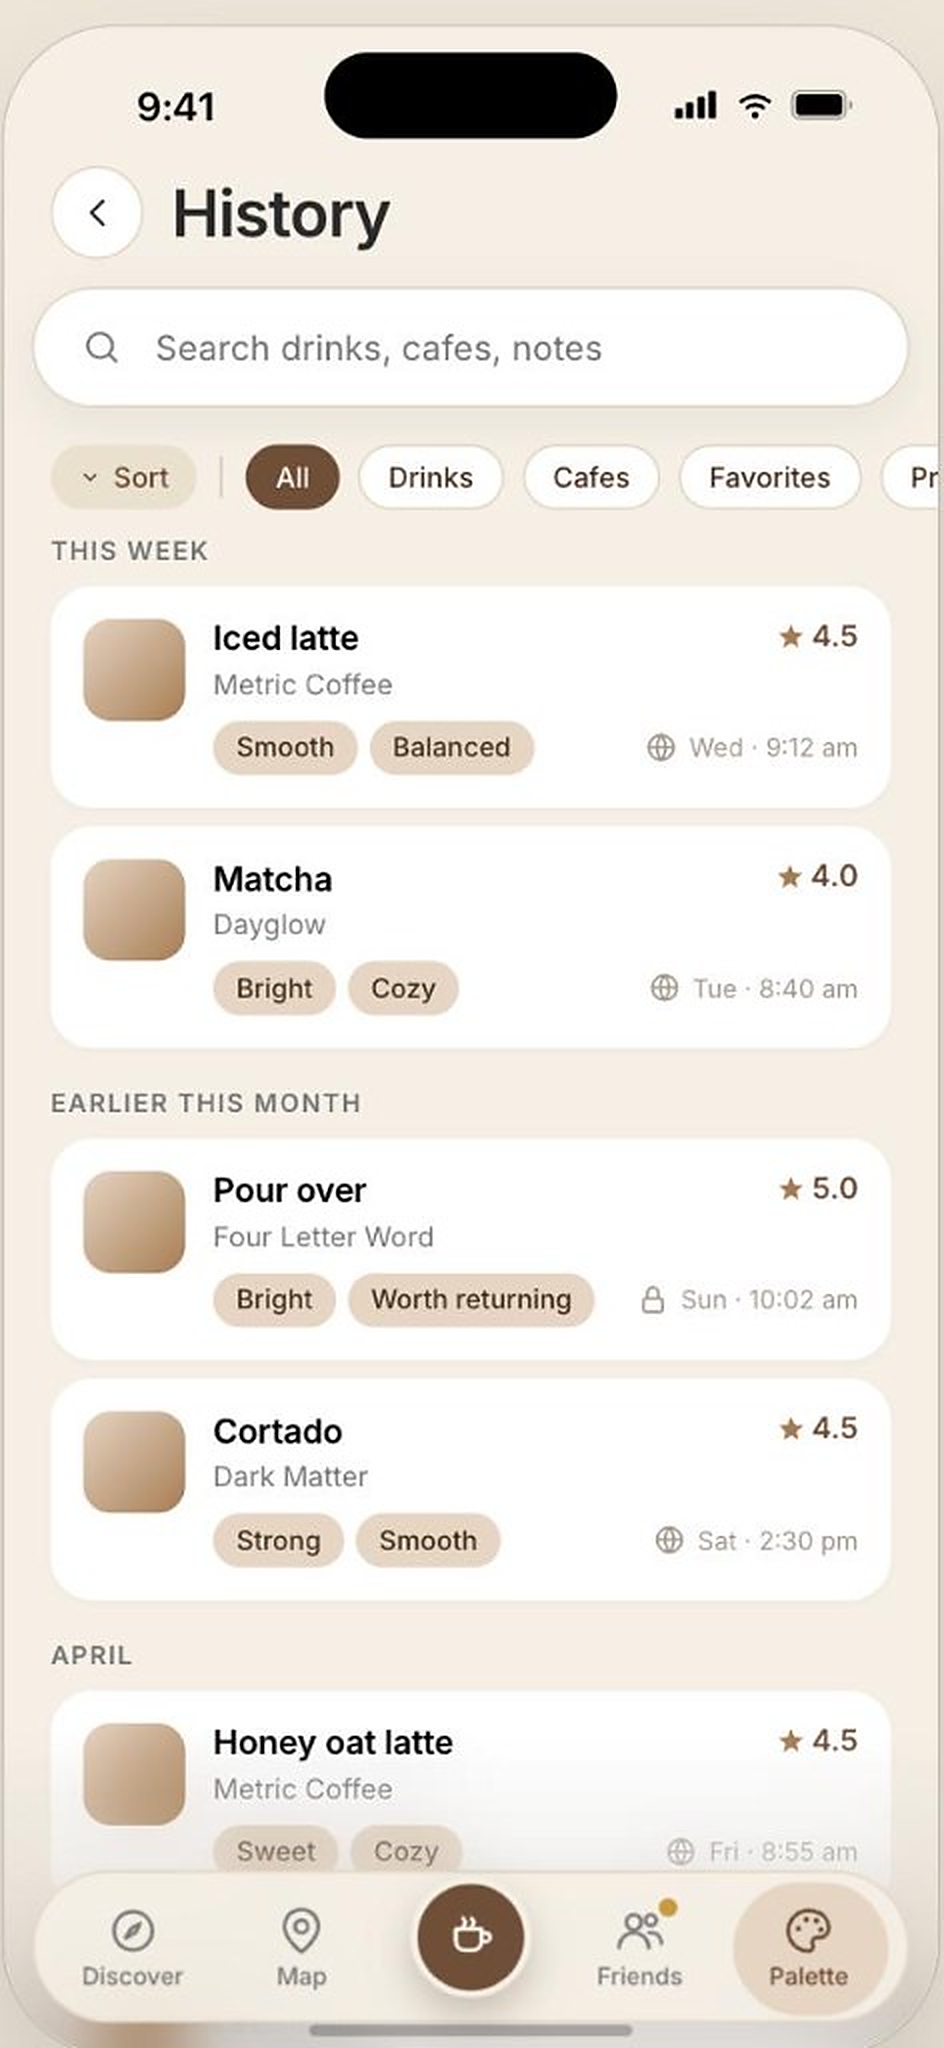
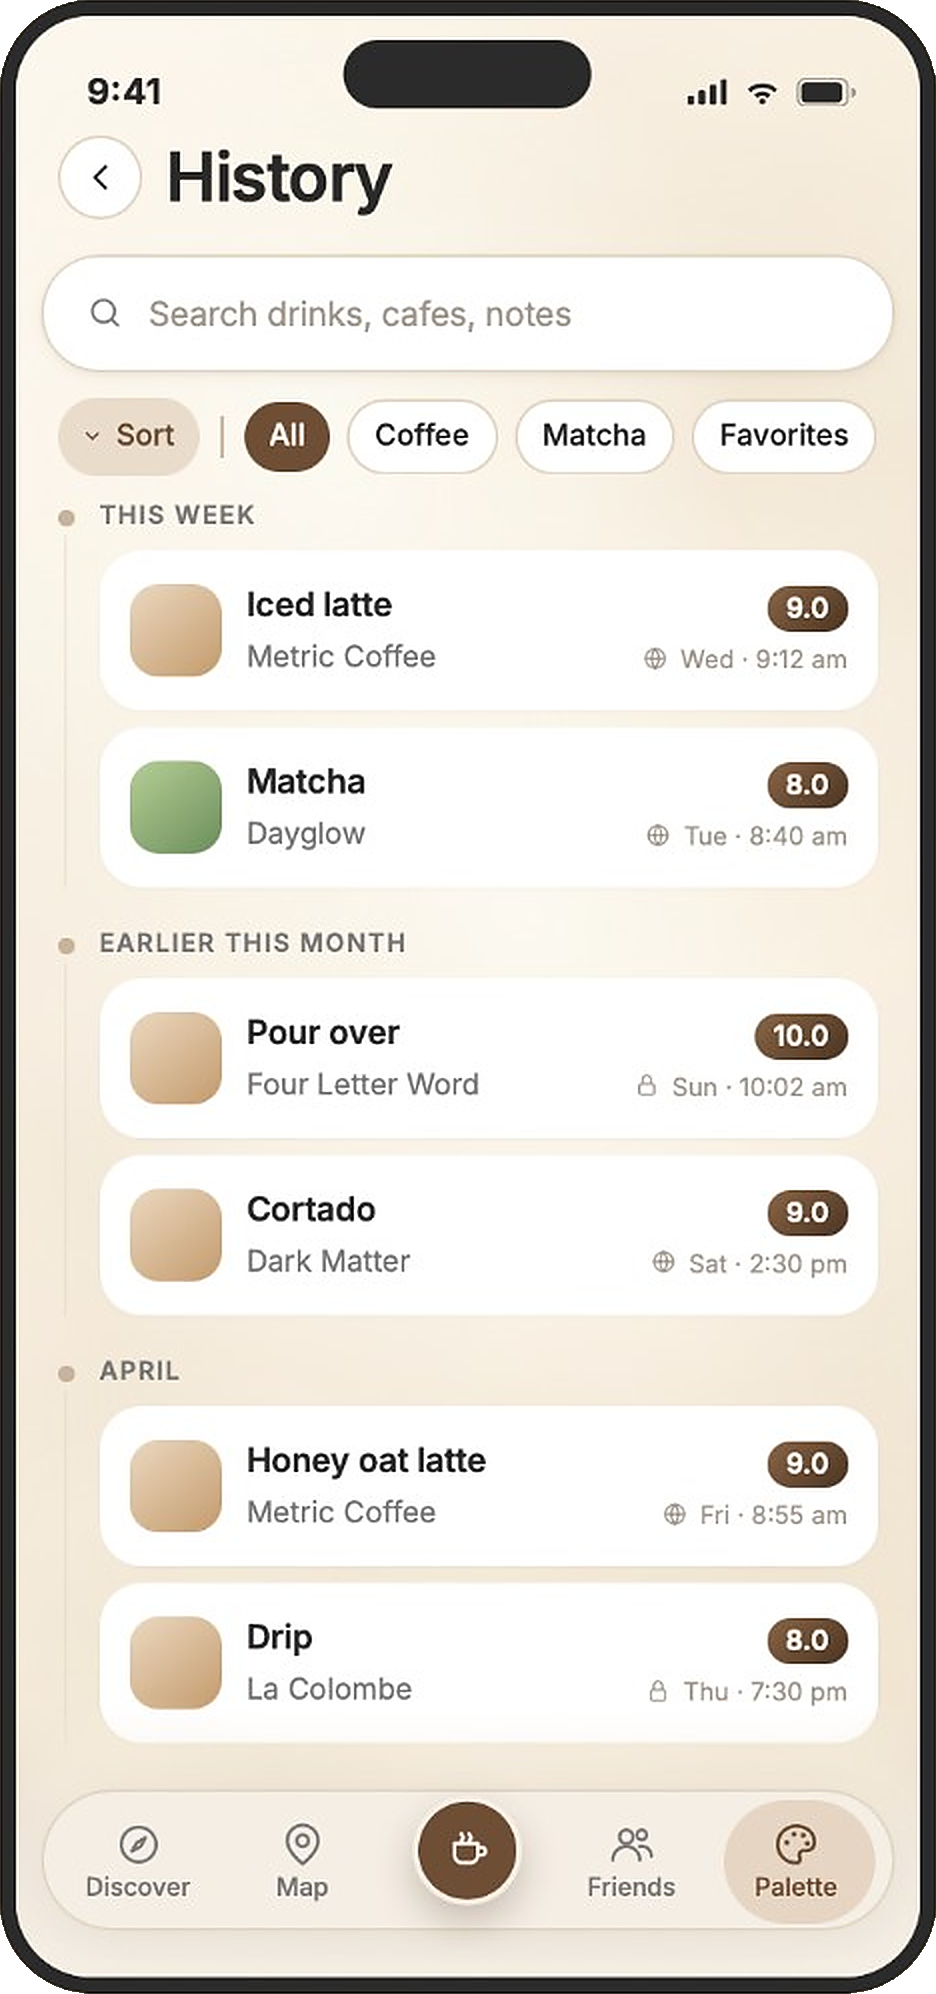
added shi

diff --git a/index.html b/index.html
@@ -108,7 +108,7 @@
   }
   .hero h1 {
     font-weight: 700;
-    font-size: clamp(40px, 4.4vw, 56px);
+    font-size: clamp(32px, 3.4vw, 44px);
     line-height: 1.08;
     letter-spacing: -0.025em;
     color: #111;
@@ -172,20 +172,13 @@
   .hero-phone {
     justify-self: center;
     width: 320px;
-    aspect-ratio: 9 / 19.5;
-    border-radius: 44px;
-    overflow: hidden;
-    background: #111;
-    box-shadow:
-      0 24px 48px -16px rgba(0,0,0,0.18),
-      0 6px 14px -6px rgba(0,0,0,0.1);
   }
   .hero-phone img {
     width: 100%;
-    height: 100%;
-    object-fit: cover;
-    transform: translate(0.5px, -0.5px) scale(1.04);
-    transform-origin: center center;
+    height: auto;
+    filter:
+      drop-shadow(0 24px 48px rgba(0, 0, 0, 0.16))
+      drop-shadow(0 6px 14px rgba(0, 0, 0, 0.08));
   }
 
   /* ---------- centered section template ---------- */
@@ -230,7 +223,18 @@
     justify-content: center;
     align-items: center;
   }
+  /* screenshots include their own device chrome — no outer shell */
+  .phone-shot {
+    width: 300px;
+    height: auto;
+    filter:
+      drop-shadow(0 24px 48px rgba(0, 0, 0, 0.16))
+      drop-shadow(0 6px 14px rgba(0, 0, 0, 0.08));
+  }
+
+  /* compare mock only */
   .phone-frame {
+    position: relative;
     width: 300px;
     aspect-ratio: 9 / 19.5;
     border-radius: 44px;
@@ -240,69 +244,14 @@
       0 24px 48px -16px rgba(0,0,0,0.16),
       0 6px 14px -6px rgba(0,0,0,0.08);
   }
-  .phone-frame > img { width: 100%; height: 100%; object-fit: cover; }
+
   /* paired phones — slight stagger to feel less stiff */
-  .phones.pair .phone-frame:first-child { transform: translateY(-12px) rotate(-1.5deg); }
-  .phones.pair .phone-frame:last-child  { transform: translateY(12px) rotate(1.5deg); }
+  .phones.pair .phone-shot:first-child { transform: translateY(-12px) rotate(-1.5deg); }
+  .phones.pair .phone-shot:last-child  { transform: translateY(12px) rotate(1.5deg); }
 
-  /* Journal — palette zoom; history nudged up inside frame */
-  .phones.pair.phones--journal .phone-frame:first-child img {
-    transform: scale(1.045);
-    transform-origin: center center;
-  }
-  .phones.pair.phones--journal .phone-frame:last-child {
-    background: #EBE3D6;
-    border: 1px solid #D5CEC4;
-    box-shadow:
-      0 24px 48px -16px rgba(0, 0, 0, 0.16),
-      0 6px 14px -6px rgba(0, 0, 0, 0.08),
-      inset 0 1px 0 rgba(255, 252, 248, 0.9),
-      inset 0 -1px 0 rgba(186, 178, 166, 0.32);
-  }
-  .phones.pair.phones--journal .phone-frame:last-child img {
-    border-radius: 43px;
-    transform: translateY(-0.5px) scale(0.995, 1.018);
-    transform-origin: 50% 42%;
-  }
-
-  /* Share — friends zoom; profile bezel matches friends cream/silver */
-  .phones.pair.phones--share .phone-frame:first-child img {
-    transform: scale(1.04);
-    transform-origin: center center;
-  }
-  .phones.pair.phones--share .phone-frame:last-child {
-    background: #EBE3D6;
-    border: 1px solid #D5CEC4;
-    box-shadow:
-      0 24px 48px -16px rgba(0, 0, 0, 0.16),
-      0 6px 14px -6px rgba(0, 0, 0, 0.08),
-      inset 0 1px 0 rgba(255, 252, 248, 0.9),
-      inset 0 -1px 0 rgba(186, 178, 166, 0.32);
-  }
-  /* Explore — left map matches hero framing */
-  .phones.pair.phones--find .phone-frame:first-child img {
-    transform: translate(0.5px, -0.5px) scale(1.04);
-    transform-origin: center center;
-  }
-  .phones.pair.phones--find .phone-frame:last-child {
-    background: #EBE3D6;
-    border: 1px solid #D5CEC4;
-    box-shadow:
-      0 24px 48px -16px rgba(0, 0, 0, 0.16),
-      0 6px 14px -6px rgba(0, 0, 0, 0.08),
-      inset 0 1px 0 rgba(255, 252, 248, 0.9),
-      inset 0 -1px 0 rgba(186, 178, 166, 0.32);
-  }
-  .phones.pair.phones--find .phone-frame:last-child img {
-    transform: translateY(-4px) scale(0.99, 1.003);
-    transform-origin: 50% 42%;
-  }
-
-  /* Profile PNG matches frame aspect — translate needs slight scale to bite */
-  .phones.pair.phones--share .phone-frame:last-child img {
-    border-radius: 43px;
-    transform: translateY(-0.5px) scale(0.995, 1.018);
-    transform-origin: 50% 42%;
+  /* Share — single full-device mockup */
+  .phones.phones--share {
+    justify-content: center;
   }
 
   /* ---------- compare stage ---------- */
@@ -795,7 +744,7 @@
     }
     .hero { padding: 64px 0 48px; }
     .hero-inner { grid-template-columns: 1fr; gap: 48px; text-align: left; }
-    .hero h1 { font-size: clamp(34px, 8vw, 48px); }
+    .hero h1 { font-size: clamp(28px, 6.5vw, 38px); }
     .hero-title-line--drink {
       display: flex;
       flex-wrap: wrap;
@@ -808,7 +757,7 @@
     .panel h2 { font-size: 44px; }
     .panel .pitch { font-size: 19px; margin-top: 36px; }
     .phones { margin-top: 56px; gap: 16px; flex-wrap: wrap; }
-    .phone-frame { width: 240px; }
+    .phone-shot { width: 240px; }
     .waitlist { padding: 120px 0 100px; margin-top: 80px; }
     .waitlist h2 { font-size: clamp(34px, 8vw, 56px); }
     .waitlist-title-line--drink {
@@ -898,7 +847,7 @@
   <div class="wrap hero-inner">
     <div>
       <h1 class="hero-title">
-        <span class="hero-title-line">Journal and share</span>
+        <span class="hero-title-line">Discover cafes and journal</span>
         <span class="hero-title-line hero-title-line--drink">
           your favorite
           <span class="hero-drink-slot">
@@ -906,13 +855,13 @@
             <em id="hero-drink">coffee</em>
           </span>
         </span>
-        <span class="hero-title-line">with your friends.</span>
+        <span class="hero-title-line">with friends.</span>
       </h1>
       <p class="hero-kicker">Coming soon to iOS and Android.</p>
       <a href="#waitlist" class="btn-waitlist">Join the waitlist</a>
     </div>
     <div class="hero-phone">
-      <img src="assets/screen-map.jpeg" alt="Sip map of cafes" />
+      <img src="assets/screen-map.png" alt="Sip map of cafes" width="936" height="1993" decoding="async" fetchpriority="high" />
     </div>
   </div>
 </section>
@@ -926,8 +875,8 @@
       Find the <em>newest lattes</em> and browse the <em>best cafes</em> near you.
     </p>
     <div class="phones pair phones--find">
-      <div class="phone-frame"><img src="assets/screen-map.jpeg" alt="Sip map of cafes" /></div>
-      <div class="phone-frame"><img src="assets/screen-discover-find.png" alt="Sip discover cafes and drinks" /></div>
+      <img class="phone-shot" src="assets/screen-map.png" alt="Sip map of cafes" width="936" height="1993" decoding="async" />
+      <img class="phone-shot" src="assets/screen-discover-find.png" alt="Sip discover cafes and drinks" width="936" height="1993" decoding="async" />
     </div>
   </div>
 </section>
@@ -1031,8 +980,8 @@
       Keep a <em>memory</em> of every drink you try and every cafe you visit.
     </p>
     <div class="phones pair phones--journal">
-      <div class="phone-frame"><img src="assets/screen-palette.jpeg" alt="Sip palette" /></div>
-      <div class="phone-frame"><img src="assets/screen-history.png" alt="Sip drink history" /></div>
+      <img class="phone-shot" src="assets/screen-palette.png" alt="Sip palette" width="936" height="1993" decoding="async" />
+      <img class="phone-shot" src="assets/screen-history.png" alt="Sip drink history" width="936" height="1994" decoding="async" />
     </div>
   </div>
 </section>
@@ -1045,9 +994,8 @@
     <p class="pitch">
       See what your friends are drinking, and what they <em>love and hate</em>.
     </p>
-    <div class="phones pair phones--share">
-      <div class="phone-frame"><img src="assets/screen-friends.jpeg" alt="Sip friends" /></div>
-      <div class="phone-frame"><img src="assets/screen-friend-profile.png" alt="Sip friend profile" /></div>
+    <div class="phones phones--share">
+      <img class="phone-shot" src="assets/screen-friends.png" alt="Sip friends" width="936" height="1993" decoding="async" />
     </div>
   </div>
 </section>